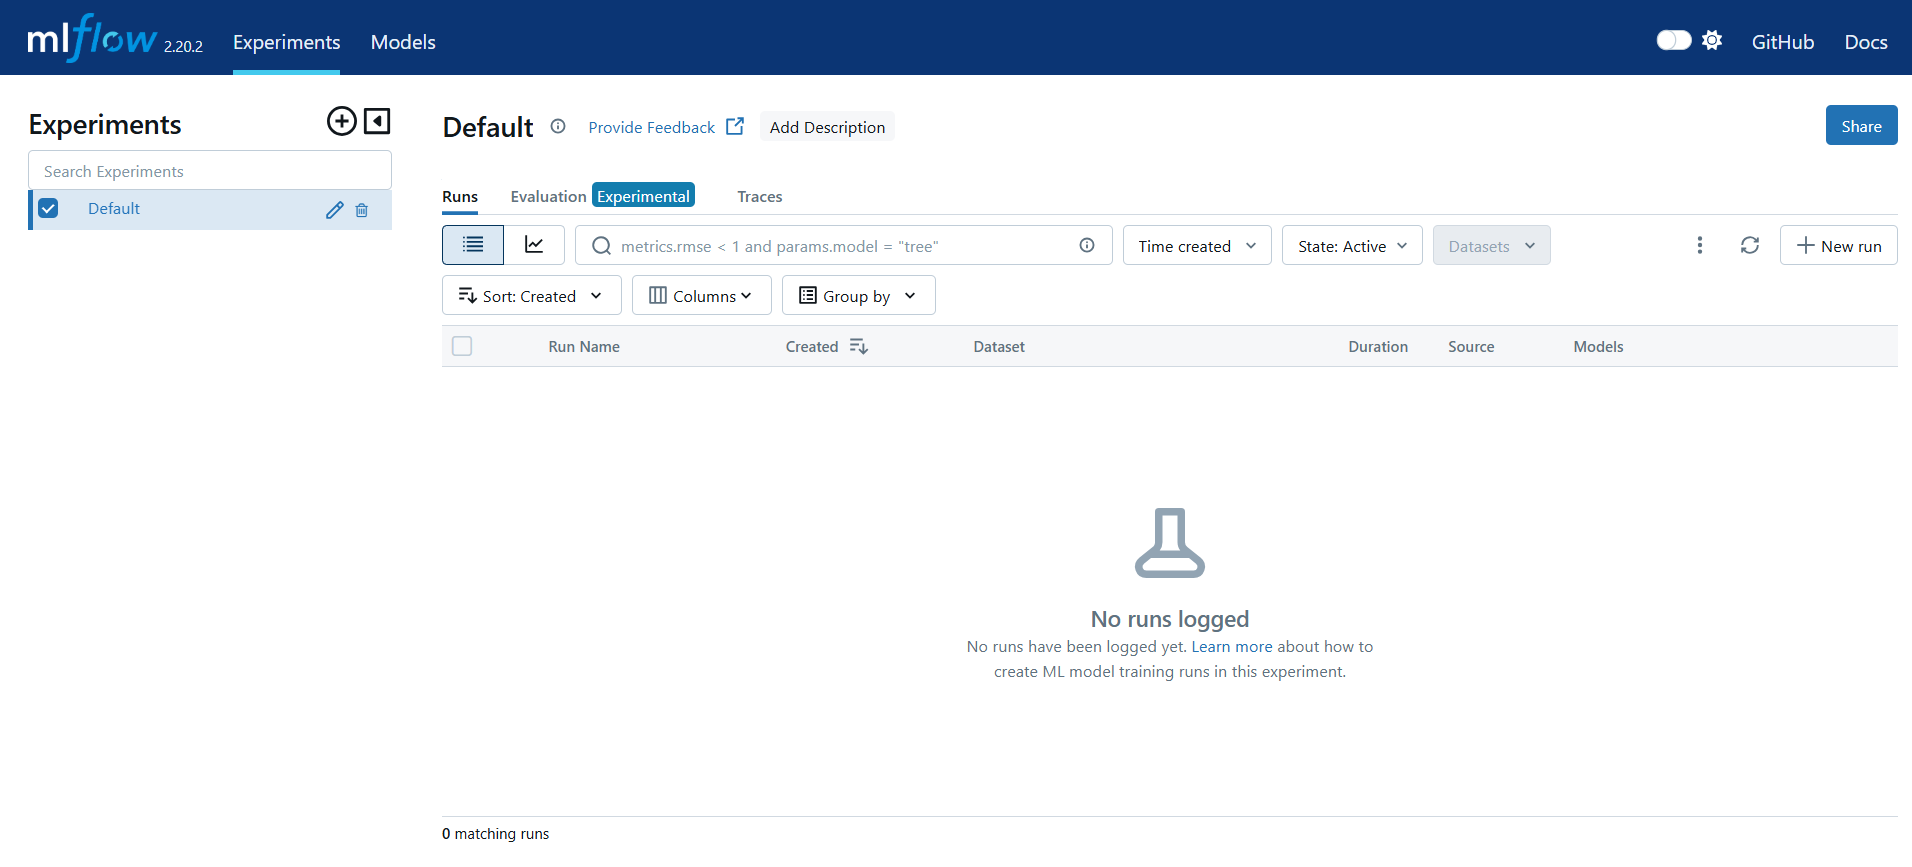
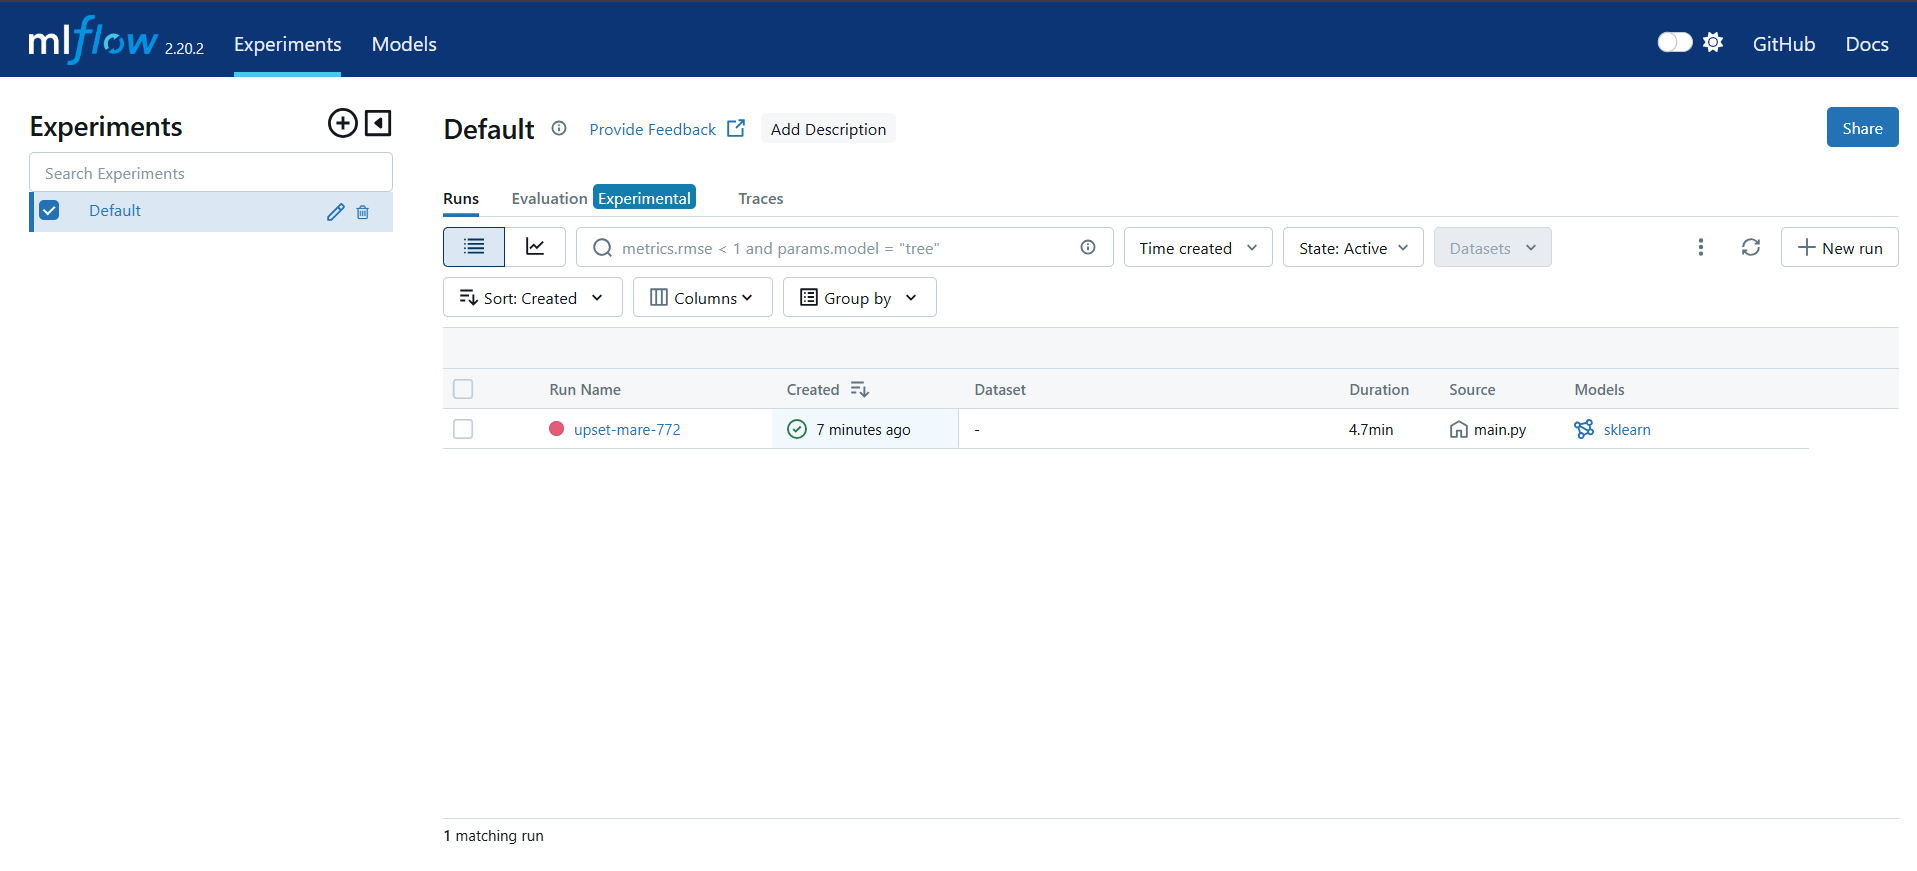
readme updated

diff --git a/main.py b/main.py
@@ -1,0 +1,43 @@
+import mlflow
+import mlflow.sklearn
+from sklearn.datasets import load_iris
+from sklearn.model_selection import train_test_split
+from sklearn.ensemble import RandomForestClassifier
+from sklearn.metrics import accuracy_score
+
+# Set the tracking URI to the MLflow server (local or remote)
+mlflow.set_tracking_uri("http://localhost:5000")
+
+# Load the Iris dataset
+data = load_iris()
+X = data.data  # Features (input data)
+y = data.target  # Target labels (output data)
+
+# Split data into training and test sets
+X_train, X_test, y_train, y_test = train_test_split(X, y, test_size=0.2, random_state=42)
+
+# Start an MLflow experiment
+with mlflow.start_run():
+
+    # Define the model
+    model = RandomForestClassifier(n_estimators=100, random_state=42)
+
+    # Train the model
+    model.fit(X_train, y_train)
+
+    # Make predictions
+    y_pred = model.predict(X_test)
+
+    # Calculate accuracy
+    accuracy = accuracy_score(y_test, y_pred)
+
+    # Log the hyperparameters and metrics with MLflow
+    mlflow.log_param("n_estimators", 100)
+    mlflow.log_param("random_state", 42)
+    mlflow.log_metric("accuracy", accuracy)
+
+    # Log the model
+    mlflow.sklearn.log_model(model, "model")
+
+    # Print the logged accuracy
+    print(f"Model accuracy: {accuracy}")

diff --git a/Readme.md b/Readme.md
@@ -81,7 +81,18 @@ Once MLflow is running, you can access the MLflow UI at:
 
 🔗 [http://localhost:5000](http://localhost:5000)
 
-The Ui look like this:
-![MLflow ui](./images/mlflow_ui.png)
-
 Now that MLflow is installed, we can explore its features for tracking, managing, and deploying models.
+
+## 🚀 Running a Simple MLflow Example
+
+The example Python script (main.py) tracks and logs a machine learning model using MLflow. Simply run:
+
+```bash
+python main.py
+```
+
+Now the Mlflow dashboard should be look like this:
+
+![MLflow Ui](./images/mlflow_ui.png)
+
+Thus we've set up MLflow to track experiments, log model parameters and metrics, and save trained models, all while using the MLflow UI to manage the ML lifecycle.
